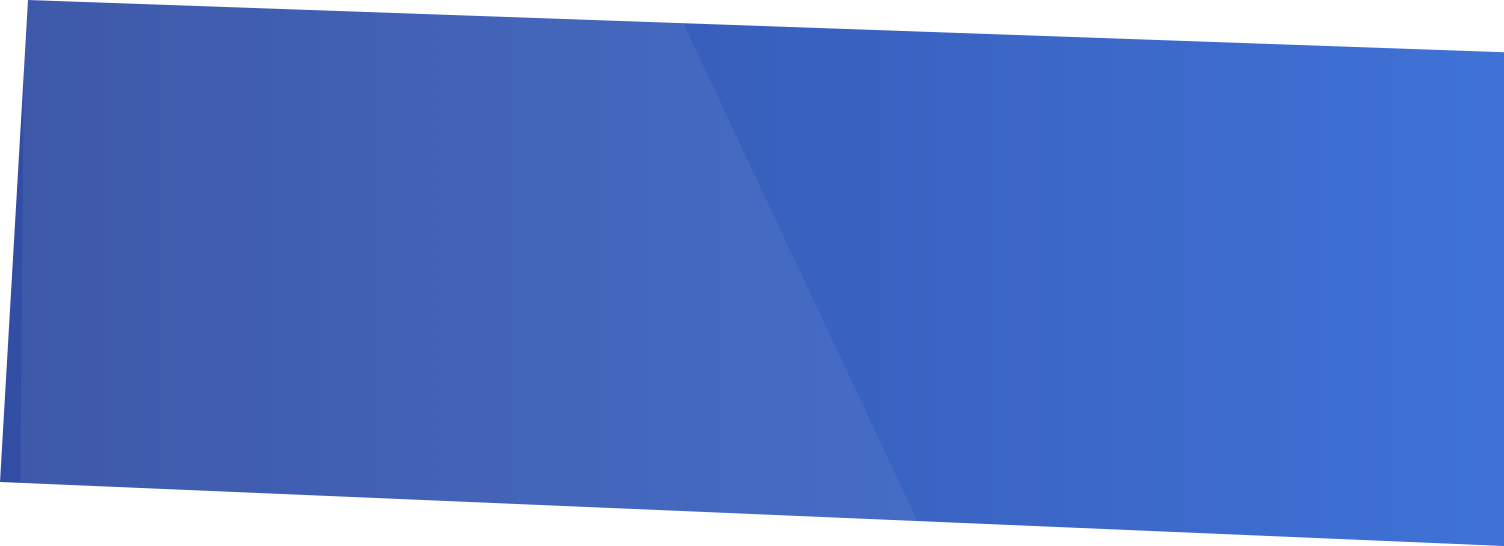
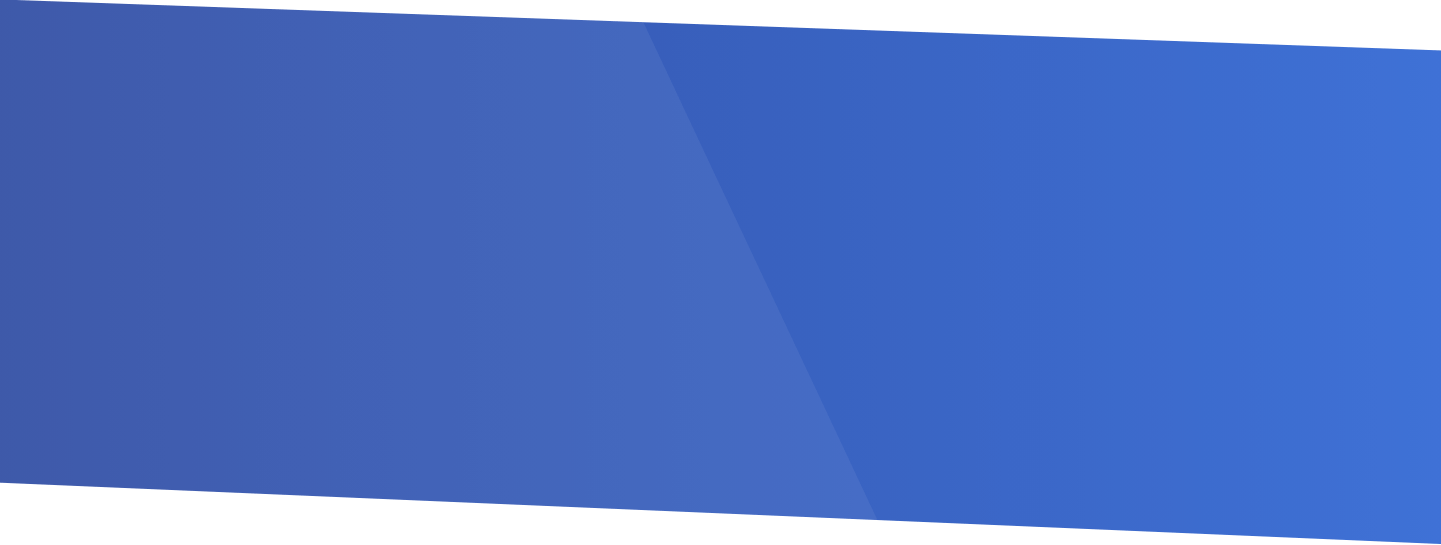
Make fullscreen pages: homw, press, team, help, contact, career, hiw;

diff --git a/dev/blocks/how-it-works/how-it-works-desktop.scss b/dev/blocks/how-it-works/how-it-works-desktop.scss
@@ -2,9 +2,9 @@
   position: relative;
   background-color: #f2f4fd;
   background-image: url("./images/how-it-works__bg-desktop.svg");
-  background-position: 0 calc(100% + 48.75rem);
+  background-position: 100% calc(100% + 48.75rem);
   background-repeat: no-repeat;
-  background-size: 100% auto;
+  background-size: 90rem auto;
   overflow: hidden;
 }
 
@@ -52,10 +52,13 @@
 }
 
 .how-it-works__wrapper {
+  margin-right: auto;
+  margin-left: auto;
   padding-top: 10rem;
   padding-right: 9.375rem;
   padding-bottom: 18.75rem;
   padding-left: 9.375rem;
+  max-width: 90rem;
 }
 
 .how-it-works__headline {

diff --git a/dev/blocks/main-footer/main-footer-desktop.scss b/dev/blocks/main-footer/main-footer-desktop.scss
@@ -29,7 +29,6 @@
   padding-bottom: 10.625rem;
   padding-left: 9.375rem;
   max-width: 90rem;
-  border-bottom: .125rem solid rgba(255, 255, 255, .5);
 }
 
 .main-footer__support-block,
@@ -89,6 +88,12 @@
     opacity: 1;
     transform: translateX(-.3rem);
   }
+}
+
+.main-footer__border-line {
+  width: 100%;
+  height: .125rem;
+  background-color: rgba(255, 255, 255, .5);
 }
 
 .main-footer__center-container {

diff --git a/dev/blocks/bit-stats/bit-stats-desktop.scss b/dev/blocks/bit-stats/bit-stats-desktop.scss
@@ -4,13 +4,16 @@
   background-image: url("./images/bit-stats__bg-desktop.png");
   background-position: center;
   background-repeat: no-repeat;
-  background-size: cover;
+  background-size: 100% 100%;
 }
 
 .bit-stats__wrapper {
+  margin-right: auto;
+  margin-left: auto;
   padding-top: 5.25rem;
   padding-right: 9.375rem;
   padding-left: 9.375rem;
+  max-width: 90rem;
 }
 
 .bit-stats__subtitle {

diff --git a/dev/blocks/address/address-desktop.scss b/dev/blocks/address/address-desktop.scss
@@ -7,9 +7,12 @@
 }
 
 .address__wrapper {
+  margin-right: auto;
+  margin-left: auto;
   padding-right: 9.375rem;
   padding-bottom: 10rem;
   padding-left: 9.375rem;
+  max-width: 90rem;
 }
 
 .address__form {
@@ -114,6 +117,7 @@
   font-size: 2.25rem;
   line-height: 3.125rem;
   color: #091540;
+
   span {
     font-family: $main-font-medium;
   }

diff --git a/dev/blocks/our-founders/our-founders-desktop.scss b/dev/blocks/our-founders/our-founders-desktop.scss
@@ -1,9 +1,9 @@
 .our-founders {
   background-color: #f2f4fd;
   background-image: url("./images/how-it-works__bg-desktop.svg");
-  background-position: 0 -48.75rem;
+  background-position: 100% -48.75rem;
   background-repeat: no-repeat;
-  background-size: 100% auto;
+  background-size: 90rem auto;
 }
 
 .our-founders__wrapper {

diff --git a/dev/blocks/career/career-desktop.scss b/dev/blocks/career/career-desktop.scss
@@ -3,10 +3,13 @@
 }
 
 .career__wrapper {
+  margin-right: auto;
+  margin-left: auto;
   padding-top: 0;
   padding-right: 9.375rem;
   padding-bottom: 10.3125rem;
   padding-left: 9.375rem;
+  max-width: 90rem;
 }
 
 .career__accordion-container {

diff --git a/dev/blocks/bit-media/bit-media-desktop.scss b/dev/blocks/bit-media/bit-media-desktop.scss
@@ -3,10 +3,13 @@
 }
 
 .bit-media__wrapper {
+  margin-right: auto;
+  margin-left: auto;
   padding-top: 5rem;
   padding-right: 9.375rem;
   padding-bottom: 10rem;
   padding-left: 9.375rem;
+  max-width: 90rem;
 }
 
 .bit-media__headline {

diff --git a/dev/blocks/standarts/standarts-desktop.scss b/dev/blocks/standarts/standarts-desktop.scss
@@ -3,10 +3,13 @@
 }
 
 .standarts__wrapper {
+  margin-right: auto;
+  margin-left: auto;
   padding-top: 5rem;
   padding-right: 9.375rem;
   padding-bottom: 10rem;
   padding-left: 9.375rem;
+  max-width: 90rem;
 }
 
 .standarts__headline {

diff --git a/dev/blocks/faq/faq-desktop.scss b/dev/blocks/faq/faq-desktop.scss
@@ -3,10 +3,13 @@
 }
 
 .faq__wrapper {
+  margin-right: auto;
+  margin-left: auto;
   padding-top: 0;
   padding-right: 9.375rem;
   padding-bottom: 10rem;
   padding-left: 9.375rem;
+  max-width: 90rem;
 }
 
 .faq__flex-container {

diff --git a/dev/blocks/you-will-get/you-will-get-desktop.scss b/dev/blocks/you-will-get/you-will-get-desktop.scss
@@ -4,9 +4,12 @@
 }
 
 .you-will-get__wrapper {
+  margin-right: auto;
+  margin-left: auto;
   padding-top: 10rem;
   padding-bottom: 10rem;
   padding-left: 9.375rem;
+  max-width: 90rem;
 }
 
 .you-will-get__flex-container {
